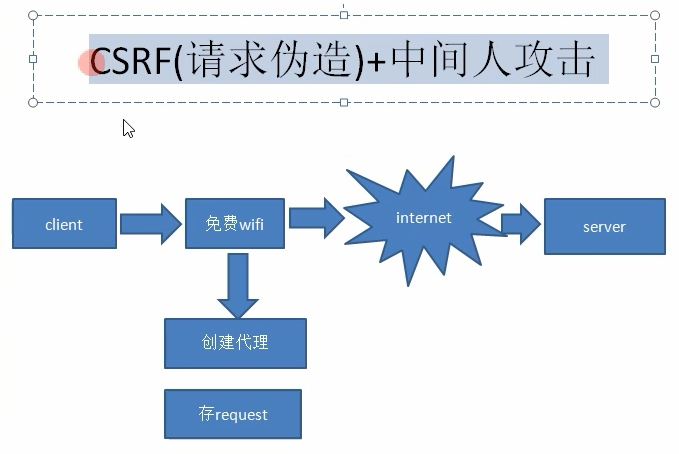
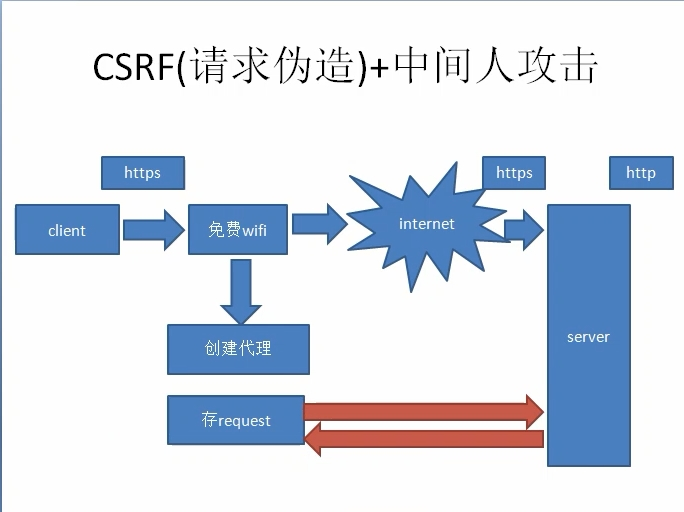
Updates chapter/常见网站攻击方式以及防范手段.md
Auto commit by GitBook Editor

diff --git a/chapter/常见网站攻击方式以及防范手段.md b/chapter/常见网站攻击方式以及防范手段.md
@@ -37,11 +37,14 @@ id为条件，如果被传进来是后面的一句话，那么就拼接成了多
 2. 富文本编辑框得到的内容。（一般自带内容转义功能）
 
 ## CSRF(请求伪造)
-![](/assets/csrf请求伪造and中间人攻击.jpg)
 
+
+![](/assets/csrf请求伪造and中间人攻击.jpg)
 因为通过了别人的代理。所以 这个代理可以拿到你的请求并修改或则存储你的信息;
 http 协议是文本协议。所以容易被获取。
 https 是二进制协议。所以不太容易被获取
 
 ### 解决方案
-* SSL
+SSL - 证书
+   * 证书安全
+   * 运维部署困难
